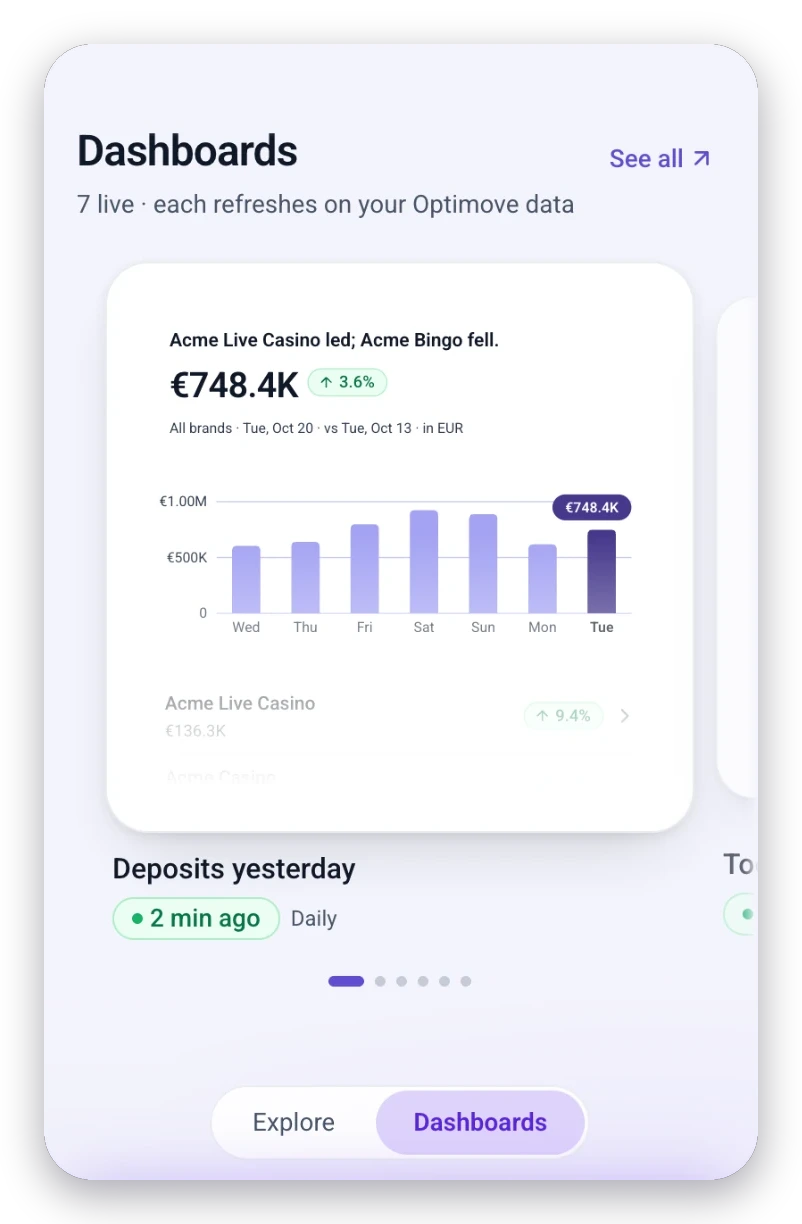
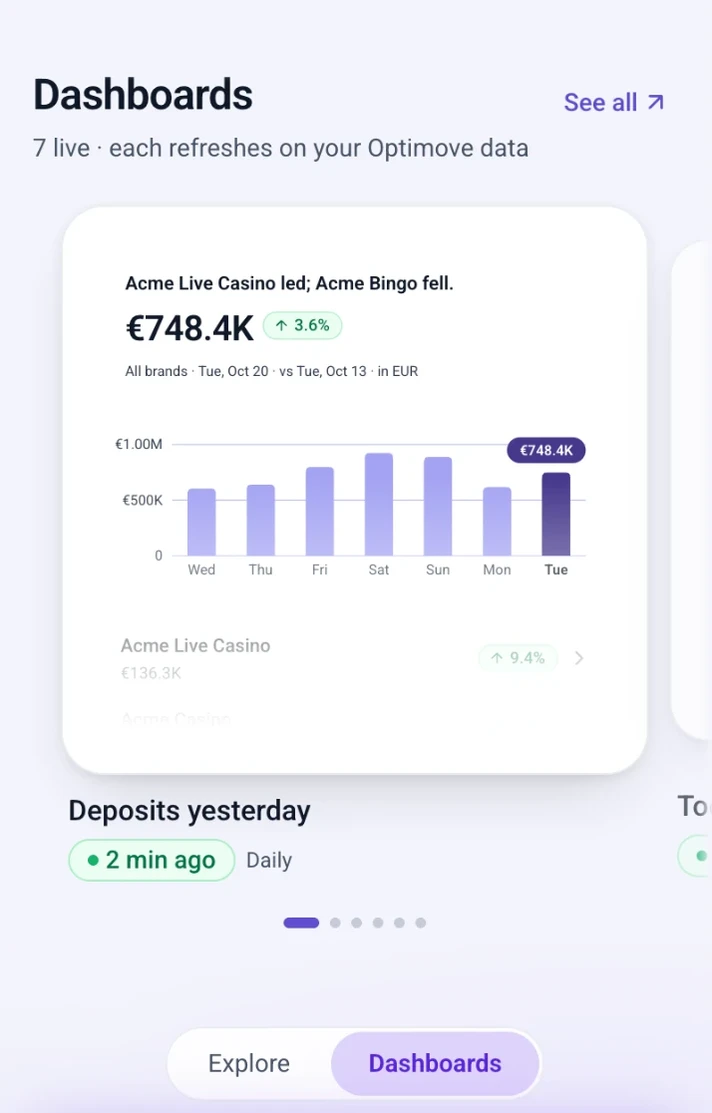
design(optigenie): decision screens one scale (full screen width, same display width), smaller, no shadow; hairline + radius in CSS

diff --git a/optigenie.html b/optigenie.html
@@ -370,7 +370,7 @@
 .ux-block-head { display: block; margin-bottom: clamp(2rem, 3vw, 3rem); }
 .ux-block-head p { margin-top: .9rem; max-width: 72ch; }
     </style>
-<style>.wireframe-study .wireframe-figure{margin:auto 0 0}.wireframe-study .ads-shot img{cursor:default}@media (min-width:721px){.ads-meta{grid-template-columns:repeat(3,minmax(0,1fr))}}.wireframe-grid.streams-three{grid-template-columns:repeat(3,minmax(0,1fr))}#build .ux-block{margin-top:var(--block-gap)}.ads-wrap > .media-story.media-story--lead{margin-top:0;padding-top:0;border-top:0}.media-story.media-story--lead .ads-h2{max-width:16ch;margin:0 0 1.5rem}@media (max-width:1100px){.wireframe-grid.streams-three{grid-template-columns:minmax(0,1fr)}}.princ,.story-phases article{border-top:0;padding-top:0}.intro-copy .ads-body + .ads-body{margin-top:1rem}#dry-run .story-opening--page + .case-figure,#decisions .story-opening--page + .case-figure{margin-top:clamp(2.5rem,4vw,4rem);padding-top:0;border-top:0}#decisions .case-figure + .case-figure{margin-top:clamp(1.5rem,2.5vw,2.5rem);padding-top:0;border-top:0}.story-phases h3{max-width:none}.og-decisions{display:grid;grid-template-columns:repeat(3,minmax(0,1fr));gap:clamp(1.5rem,2.5vw,2.5rem);margin-top:clamp(3rem,5vw,5rem)}.og-dcard{display:flex;flex-direction:column}.og-dcard__fig{position:relative;margin:0 0 1.75rem;aspect-ratio:4/5;border-radius:24px;background:#ededfb;overflow:hidden}.og-dcard__fig img{position:absolute;inset:clamp(.75rem,1.6vw,1.5rem);width:calc(100% - 2*clamp(.75rem,1.6vw,1.5rem));height:calc(100% - 2*clamp(.75rem,1.6vw,1.5rem));object-fit:contain}.og-dcard h3{font-size:clamp(1.25rem,1.7vw,1.5rem);line-height:1.2;margin:.75rem 0 .75rem}.og-dcard .phase{display:block;color:var(--violet);font-size:.75rem;font-weight:600;line-height:1.5;letter-spacing:.12em;text-transform:uppercase}.og-dcard > p:not(.og-instead){margin:0;font-size:clamp(1rem,1.1vw,1.125rem);line-height:1.7;color:var(--text);max-width:42ch}.og-dcard .og-instead{margin-top:auto;padding-top:1.25rem}.og-dcard > p:not(.og-instead){margin-bottom:1.5rem}@media (max-width:900px){.og-decisions{grid-template-columns:minmax(0,1fr)}.og-dcard__fig{aspect-ratio:1/1}}.og-vs{display:grid;grid-template-columns:1fr 1fr;margin-top:1rem;text-align:center;font-size:.85rem;font-weight:600;color:var(--muted)}.og-vs span:last-child{color:var(--violet)}.og-instead{margin-top:1.75rem;padding-top:1.25rem;border-top:1px solid var(--line);color:var(--muted);font-size:.95rem;line-height:1.55}.og-instead span{display:block;color:var(--violet);font-size:.7rem;font-weight:600;letter-spacing:.12em;text-transform:uppercase;margin-bottom:.4rem}.story-opening--page .intro-copy{max-width:110ch}@media (min-width:1500px){.story-phases h3{white-space:nowrap}}@media (min-width:1100px){}</style>
+<style>.wireframe-study .wireframe-figure{margin:auto 0 0}.wireframe-study .ads-shot img{cursor:default}@media (min-width:721px){.ads-meta{grid-template-columns:repeat(3,minmax(0,1fr))}}.wireframe-grid.streams-three{grid-template-columns:repeat(3,minmax(0,1fr))}#build .ux-block{margin-top:var(--block-gap)}.ads-wrap > .media-story.media-story--lead{margin-top:0;padding-top:0;border-top:0}.media-story.media-story--lead .ads-h2{max-width:16ch;margin:0 0 1.5rem}@media (max-width:1100px){.wireframe-grid.streams-three{grid-template-columns:minmax(0,1fr)}}.princ,.story-phases article{border-top:0;padding-top:0}.intro-copy .ads-body + .ads-body{margin-top:1rem}#dry-run .story-opening--page + .case-figure,#decisions .story-opening--page + .case-figure{margin-top:clamp(2.5rem,4vw,4rem);padding-top:0;border-top:0}#decisions .case-figure + .case-figure{margin-top:clamp(1.5rem,2.5vw,2.5rem);padding-top:0;border-top:0}.story-phases h3{max-width:none}.og-decisions{display:grid;grid-template-columns:repeat(3,minmax(0,1fr));gap:clamp(1.5rem,2.5vw,2.5rem);margin-top:clamp(3rem,5vw,5rem)}.og-dcard{display:flex;flex-direction:column}.og-dcard__fig{position:relative;margin:0 0 1.75rem;aspect-ratio:1/1;border-radius:24px;background:#ededfb;overflow:hidden}.og-dcard__fig img{position:absolute;left:50%;top:50%;transform:translate(-50%,-50%);width:56%;height:auto;border-radius:16px;box-shadow:0 0 0 1px rgba(29,24,80,.08)}.og-dcard h3{font-size:clamp(1.25rem,1.7vw,1.5rem);line-height:1.2;margin:.75rem 0 .75rem}.og-dcard .phase{display:block;color:var(--violet);font-size:.75rem;font-weight:600;line-height:1.5;letter-spacing:.12em;text-transform:uppercase}.og-dcard > p:not(.og-instead){margin:0;font-size:clamp(1rem,1.1vw,1.125rem);line-height:1.7;color:var(--text);max-width:42ch}.og-dcard .og-instead{margin-top:auto;padding-top:1.25rem}.og-dcard > p:not(.og-instead){margin-bottom:1.5rem}@media (max-width:900px){.og-decisions{grid-template-columns:minmax(0,1fr)}.og-dcard__fig{aspect-ratio:1/1}}.og-vs{display:grid;grid-template-columns:1fr 1fr;margin-top:1rem;text-align:center;font-size:.85rem;font-weight:600;color:var(--muted)}.og-vs span:last-child{color:var(--violet)}.og-instead{margin-top:1.75rem;padding-top:1.25rem;border-top:1px solid var(--line);color:var(--muted);font-size:.95rem;line-height:1.55}.og-instead span{display:block;color:var(--violet);font-size:.7rem;font-weight:600;letter-spacing:.12em;text-transform:uppercase;margin-bottom:.4rem}.story-opening--page .intro-copy{max-width:110ch}@media (min-width:1500px){.story-phases h3{white-space:nowrap}}@media (min-width:1100px){}</style>
 <style>
 /* Animated pencil sketches (sketch_anim.py). Without the .is-armed hook everything is simply drawn. */
 @font-face{font-family:Caveat;font-style:normal;font-weight:500;font-display:swap;src:url(./assets/streams/caveat-500.ttf) format("truetype")}
@@ -898,7 +898,7 @@ body::after { content: ""; position: fixed; inset: 0; z-index: 9000; pointer-eve
             <p class="sub fade-up">OptiGenie is Optimove’s AI assistant for CRM marketers and the managers who follow their work. I led its first mobile app from the UX and feature set to the MVP.</p>
         </div></section>
         <section class="ads-sec ads-sec--mist" id="challenge" data-rail="The challenge"><div class="ads-wrap"><div class="story-opening story-opening--page story-opening--sketch"><div class="ads-head fade-up"><p class="ads-label page-chapter">The challenge</p><h2 class="ads-h2">Bringing OptiGenie to mobile</h2><p class="ads-body">OptiGenie 3.1 had grown on desktop, with memory, artifacts, dashboards and scheduled tasks, all inside one long conversation. I led its move to the phone, a strategic product for the company, from the first UX decisions and feature set to the MVP.</p><p class="ads-body">On the phone it serves two users with overlapping needs. CRM marketers want a fast, clear update and a bird’s-eye view of their brands and campaigns, then to act on what needs them. Managers want the picture of the marketing activity without running it. Rather than two apps, both start from the same summary and go as deep as they need: Dashboards for the view at a glance, Explore and Tasks for acting on it.</p><p class="ads-body">Three things made that hard.</p><p class="ads-body"><strong>A lot to look at, one right story.</strong> Optimove holds a lot of data and a lot of things to view: brands, campaigns, customers and channels, plus memory, artifacts, dashboards and tasks. On a small screen it can’t all be shown at once, so the app has to navigate it for the marketer and tell the right story: what changed, what matters and what needs them.</p><p class="ads-body"><strong>Answers came as paragraphs.</strong> The figures were right, but on a small screen the marketer read a wall of words to find the one number that mattered.</p><p class="ads-body"><strong>The AI acts on its own.</strong> Tasks run on a schedule and can change campaigns, so the marketer has to see what it did and decide what it may do without asking.</p><p class="ads-body">The work was to answer all three in one product for the phone, on the Optimove design system.</p></div><figure class="story-sketch fade-up" tabindex="0" aria-label="The challenge; scroll sideways on small screens"><svg class="mg" id="mg-og-challenge" viewBox="0 0 520 710" role="img" aria-label="OptiGenie 3.1 on desktop (memory, artifacts, dashboards and tasks) becomes one mobile app on the Optimove design system: Optimove's first mobile app, led from UX to MVP, and growing past the MVP." data-dur="7.6" xmlns="http://www.w3.org/2000/svg"><g aria-hidden="true"><g class="drop" style="--d:0.00s"><rect x="40" y="29" width="440" height="160" rx="16" fill="#aca4ea" stroke="#1d1850" stroke-width="2.0"/><rect x="40" y="20" width="440" height="160" rx="16" fill="#ffffff" stroke="#1d1850" stroke-width="2.0"/><path d="M51.2 23.2 H468.8" stroke="#ffffff" stroke-width="2.4" stroke-linecap="round" opacity=".75" fill="none"/><g transform="translate(260.0 60) scale(1.0)"><path class="tx" d="M-20 -14 H20 V10 H-20 Z" fill="#ffffff" stroke="none" style="--d:0.40s;--t:.3s"/><path class="dr" d="M-20 -14 H20 V10 H-20 Z" pathLength="1" fill="none" stroke="#1d1850" stroke-width="3.0" stroke-linecap="round" stroke-linejoin="round" style="--d:0.30s;--t:0.35s"/><path class="dr" d="M-6 10 V16 M6 10 V16 M-10 16 H10" pathLength="1" fill="none" stroke="#1d1850" stroke-width="3.0" stroke-linecap="round" stroke-linejoin="round" style="--d:0.42s;--t:0.35s"/></g><g class="pop" style="--d:0.45s"><circle cx="466" cy="26" r="17" fill="#4a37c9" stroke="#1d1850" stroke-width="2.0"/><circle cx="466" cy="22" r="17" fill="#8f7af8" stroke="#1d1850" stroke-width="2.0"/><g transform="translate(466 22) scale(0.45)"><path class="dr" d="M0 -18 C1.5 -6 6 -1.5 18 0 C6 1.5 1.5 6 0 18 C-1.5 6 -6 1.5 -18 0 C-6 -1.5 -1.5 -6 0 -18 Z" pathLength="1" fill="none" stroke="#ffffff" stroke-width="4.4" stroke-linecap="round" stroke-linejoin="round" style="--d:0.65s;--t:0.35s"/></g></g></g><text class="w" x="260.0" y="106" font-size="25" font-weight="800" text-anchor="middle" fill="#1d1850" data-max="416" style="--d:0.30s;--t:0.45s">OptiGenie 3.1</text><text class="tx mut" x="260.0" y="133" font-size="16" font-weight="500" text-anchor="middle" fill="#1d1850" data-max="416" style="--d:0.45s;--t:0.40s">on desktop: memory, artifacts,</text><text class="tx mut" x="260.0" y="155" font-size="16" font-weight="500" text-anchor="middle" fill="#1d1850" data-max="416" style="--d:0.53s;--t:0.40s">dashboards and tasks</text><path class="dr" d="M260 194 Q260.0 215.0 260 236" pathLength="1" fill="none" stroke="#1d1850" stroke-width="2.8" stroke-linecap="round" style="--d:0.70s;--t:0.30s"/><path class="dr" d="M254.7 226.3 L260 236 L265.3 226.3" pathLength="1" fill="none" stroke="#1d1850" stroke-width="2.8" stroke-linecap="round" stroke-linejoin="round" style="--d:0.94s;--t:.2s"/><g class="drop" style="--d:1.00s"><rect x="40" y="259" width="440" height="160" rx="16" fill="#c6e92b" stroke="#1d1850" stroke-width="2.0"/><rect x="40" y="250" width="440" height="160" rx="16" fill="#ffffff" stroke="#1d1850" stroke-width="2.0"/><path d="M51.2 253.2 H468.8" stroke="#ffffff" stroke-width="2.4" stroke-linecap="round" opacity=".75" fill="none"/><g transform="translate(260.0 290) scale(1.0)"><path class="tx" d="M-12 -20 H12 V20 H-12 Z" fill="#ffffff" stroke="none" style="--d:1.40s;--t:.3s"/><path class="dr" d="M-12 -20 H12 V20 H-12 Z" pathLength="1" fill="none" stroke="#1d1850" stroke-width="3.0" stroke-linecap="round" stroke-linejoin="round" style="--d:1.30s;--t:0.35s"/><path class="dr" d="M-4 15 H4" pathLength="1" fill="none" stroke="#1d1850" stroke-width="3.0" stroke-linecap="round" stroke-linejoin="round" style="--d:1.42s;--t:0.35s"/></g></g><text class="w" x="260.0" y="336" font-size="25" font-weight="800" text-anchor="middle" fill="#1d1850" data-max="416" style="--d:1.30s;--t:0.45s">One mobile app</text><text class="tx mut" x="260.0" y="363" font-size="16" font-weight="500" text-anchor="middle" fill="#1d1850" data-max="416" style="--d:1.45s;--t:0.40s">on the Optimove</text><text class="tx mut" x="260.0" y="385" font-size="16" font-weight="500" text-anchor="middle" fill="#1d1850" data-max="416" style="--d:1.53s;--t:0.40s">design system</text><path class="dr" d="M260 424 Q260.0 445.0 260 466" pathLength="1" fill="none" stroke="#1d1850" stroke-width="2.8" stroke-linecap="round" style="--d:1.70s;--t:0.30s"/><path class="dr" d="M254.7 456.3 L260 466 L265.3 456.3" pathLength="1" fill="none" stroke="#1d1850" stroke-width="2.8" stroke-linecap="round" stroke-linejoin="round" style="--d:1.94s;--t:.2s"/><g class="drop" style="--d:2.00s"><rect x="40" y="489" width="440" height="160" rx="16" fill="#aca4ea" stroke="#1d1850" stroke-width="2.0"/><rect x="40" y="480" width="440" height="160" rx="16" fill="#ffffff" stroke="#1d1850" stroke-width="2.0"/><path d="M51.2 483.2 H468.8" stroke="#ffffff" stroke-width="2.4" stroke-linecap="round" opacity=".75" fill="none"/><g transform="translate(260.0 520) scale(1.0)"><path class="tx" d="M-18 0 a18 18 0 1 0 36 0 a18 18 0 1 0 -36 0" fill="#ffffff" stroke="none" style="--d:2.40s;--t:.3s"/><path class="dr" d="M-18 0 a18 18 0 1 0 36 0 a18 18 0 1 0 -36 0" pathLength="1" fill="none" stroke="#1d1850" stroke-width="3.0" stroke-linecap="round" stroke-linejoin="round" style="--d:2.30s;--t:0.35s"/><path class="dr" d="M-5 -8 L9 0 L-5 8 Z" pathLength="1" fill="none" stroke="#1d1850" stroke-width="3.0" stroke-linecap="round" stroke-linejoin="round" style="--d:2.42s;--t:0.35s"/></g></g><text class="w" x="260.0" y="566" font-size="25" font-weight="800" text-anchor="middle" fill="#1d1850" data-max="416" style="--d:2.30s;--t:0.45s">A strategic first</text><text class="tx mut" x="260.0" y="593" font-size="16" font-weight="500" text-anchor="middle" fill="#1d1850" data-max="416" style="--d:2.45s;--t:0.40s">Optimove’s first mobile app,</text><text class="tx mut" x="260.0" y="615" font-size="16" font-weight="500" text-anchor="middle" fill="#1d1850" data-max="416" style="--d:2.53s;--t:0.40s">led from UX to MVP</text><text class="tx mut" x="260" y="690" font-size="17" font-weight="600" text-anchor="middle" fill="#1d1850" data-max="400" style="--d:2.70s;--t:0.40s">and growing past the MVP</text></g></svg></figure></div></div></section>
-        <section class="ads-sec" id="discovery" data-rail="Discovery &amp; definition"><div class="ads-wrap"><p class="ads-label page-chapter fade-up">Discovery &amp; definition</p><div class="story-opening story-opening--page story-opening--stack"><div class="ads-head fade-up"><h2 class="ads-h2">Main UX decisions</h2></div><div class="intro-copy fade-up"><p class="ads-body">Bringing OptiGenie 3.1 from desktop to the phone meant more than fitting it on a smaller screen. On desktop it is a long conversation in a wide window; on a phone, a visit is often a quick check. Every call came back to one question: what does the marketer need in the first few seconds, and what can wait a tap away. These are the decisions that shaped the app most: where you start, where things live, what the AI does on its own, and how it shows an answer.</p></div></div><div class="og-decisions"><article class="og-dcard fade-up"><figure class="og-dcard__fig"><img loading="lazy" decoding="async" src="./assets/optigenie/dec-home.webp?v=a7a9c1a1cc5c" width="888" height="1026" alt="The OptiGenie home: a greeting, the next scheduled tasks under Coming up, and two suggested questions."></figure><span class="phase">01 · Starting point</span><h3>Open on what matters</h3><p>The home says what OptiGenie can do and what is coming up next, and suggests the questions worth asking.</p><p class="og-instead"><span>Instead of</span> an empty box waiting for the right question.</p></article><article class="og-dcard fade-up"><figure class="og-dcard__fig"><img loading="lazy" decoding="async" src="./assets/optigenie/dec-tabs.webp?v=e85b240eeb6b" width="802" height="1224" alt="The Dashboards tab: a live Deposits yesterday dashboard with its chart and refresh time, and the Explore and Dashboards switch at the bottom."></figure><span class="phase">02 · Structure</span><h3>Explore and Dashboards as tabs</h3><p>Marketers ask new questions, and they check the same numbers every morning. The views they follow get their own tab, refreshed on a schedule, a swipe from where they ask: the conversation is the way in, not the whole product. Everything else sits in one menu, on every screen.</p><p class="og-instead"><span>Instead of</span> one long chat history that holds everything.</p></article><article class="og-dcard fade-up"><figure class="og-dcard__fig"><img loading="lazy" decoding="async" src="./assets/optigenie/dec-approval.webp?v=d3b0ba94e067" width="870" height="596" alt="A task run that Needs your OK: the steps OptiGenie took, a drafted win-back, and Approve and Decline buttons."></figure><span class="phase">03 · Trust</span><h3>Visible steps, approval by choice</h3><p>OptiGenie shows the steps it takes while it works. Whether a task asks before it changes anything in Optimove is the marketer’s call: Ask me first or Run on its own. Sending to customers always asks.</p><p class="og-instead"><span>Instead of</span> an AI that acts without showing what it did.</p></article></div><div class="media-story"><div class="media-story-copy fade-up"><div><p class="media-kicker">04 · Answers</p><h3>Answers you can see, not read</h3></div><div><p>The model answered in text. The figures were there, but on a phone the marketer had to read through a list of numbers to find the point.</p><p>My call was to teach the model how we build. I adapted the skill I built for composing Optimove screens: the component catalog, which block fits which kind of figure, and how a dashboard tells its story. With it, the model answers in blocks that the app draws with its own components: the point in one sentence, a key figure with its change, the chart that fits, and a short takeaway.</p><p>Same question, same data: on the left the model on its own, on the right with the skill, which builds the answer as a small dashboard. In a test on eight questions from the app, the text answers averaged about 105 words and 20 numbers. With the skill they averaged 35 words, with the figures in charts and cards. See the skill on the AI skills for product design page.</p></div></div><figure class="case-figure fade-up" style="--media-max:900px"><div class="ads-shot recording-frame" data-title="The same question, How are my brands doing?, answered twice and scrolled. Left, the model on its own: bullet lists of figures. Right, with the skill: a dashboard with a hero card of deposits and a week of bars, KPI cards with their changes and a breakdown by brand."><video src="./assets/optigenie/og-answers-skill.mp4?v=9c0c17fae960" poster="./assets/optigenie/og-answers-skill-poster.webp?v=5db4326e23c1" width="1896" height="1692" loop muted playsinline preload="none" aria-label="The same question, How are my brands doing?, answered twice and scrolled. Left, the model on its own: bullet lists of figures. Right, with the skill: a dashboard with a hero card of deposits and a week of bars, KPI cards with their changes and a breakdown by brand."></video></div><figcaption class="og-vs"><span>Without the skill</span><span>With the skill</span></figcaption></figure></div></div></section>
+        <section class="ads-sec" id="discovery" data-rail="Discovery &amp; definition"><div class="ads-wrap"><p class="ads-label page-chapter fade-up">Discovery &amp; definition</p><div class="story-opening story-opening--page story-opening--stack"><div class="ads-head fade-up"><h2 class="ads-h2">Main UX decisions</h2></div><div class="intro-copy fade-up"><p class="ads-body">Bringing OptiGenie 3.1 from desktop to the phone meant more than fitting it on a smaller screen. On desktop it is a long conversation in a wide window; on a phone, a visit is often a quick check. Every call came back to one question: what does the marketer need in the first few seconds, and what can wait a tap away. These are the decisions that shaped the app most: where you start, where things live, what the AI does on its own, and how it shows an answer.</p></div></div><div class="og-decisions"><article class="og-dcard fade-up"><figure class="og-dcard__fig"><img loading="lazy" decoding="async" src="./assets/optigenie/dec-home.webp?v=86b87a72cff6" width="712" height="862" alt="The OptiGenie home: a greeting, the next scheduled tasks under Coming up, and two suggested questions."></figure><span class="phase">01 · Starting point</span><h3>Open on what matters</h3><p>The home says what OptiGenie can do and what is coming up next, and suggests the questions worth asking.</p><p class="og-instead"><span>Instead of</span> an empty box waiting for the right question.</p></article><article class="og-dcard fade-up"><figure class="og-dcard__fig"><img loading="lazy" decoding="async" src="./assets/optigenie/dec-tabs.webp?v=cd8b29443c0f" width="712" height="1113" alt="The Dashboards tab: a live Deposits yesterday dashboard with its chart and refresh time, and the Explore and Dashboards switch at the bottom."></figure><span class="phase">02 · Structure</span><h3>Explore and Dashboards as tabs</h3><p>Marketers ask new questions, and they check the same numbers every morning. The views they follow get their own tab, refreshed on a schedule, a swipe from where they ask: the conversation is the way in, not the whole product. Everything else sits in one menu, on every screen.</p><p class="og-instead"><span>Instead of</span> one long chat history that holds everything.</p></article><article class="og-dcard fade-up"><figure class="og-dcard__fig"><img loading="lazy" decoding="async" src="./assets/optigenie/dec-approval.webp?v=dbb0330347f8" width="712" height="497" alt="A task run that Needs your OK: the steps OptiGenie took, a drafted win-back, and Approve and Decline buttons."></figure><span class="phase">03 · Trust</span><h3>Visible steps, approval by choice</h3><p>OptiGenie shows the steps it takes while it works. Whether a task asks before it changes anything in Optimove is the marketer’s call: Ask me first or Run on its own. Sending to customers always asks.</p><p class="og-instead"><span>Instead of</span> an AI that acts without showing what it did.</p></article></div><div class="media-story"><div class="media-story-copy fade-up"><div><p class="media-kicker">04 · Answers</p><h3>Answers you can see, not read</h3></div><div><p>The model answered in text. The figures were there, but on a phone the marketer had to read through a list of numbers to find the point.</p><p>My call was to teach the model how we build. I adapted the skill I built for composing Optimove screens: the component catalog, which block fits which kind of figure, and how a dashboard tells its story. With it, the model answers in blocks that the app draws with its own components: the point in one sentence, a key figure with its change, the chart that fits, and a short takeaway.</p><p>Same question, same data: on the left the model on its own, on the right with the skill, which builds the answer as a small dashboard. In a test on eight questions from the app, the text answers averaged about 105 words and 20 numbers. With the skill they averaged 35 words, with the figures in charts and cards. See the skill on the AI skills for product design page.</p></div></div><figure class="case-figure fade-up" style="--media-max:900px"><div class="ads-shot recording-frame" data-title="The same question, How are my brands doing?, answered twice and scrolled. Left, the model on its own: bullet lists of figures. Right, with the skill: a dashboard with a hero card of deposits and a week of bars, KPI cards with their changes and a breakdown by brand."><video src="./assets/optigenie/og-answers-skill.mp4?v=9c0c17fae960" poster="./assets/optigenie/og-answers-skill-poster.webp?v=5db4326e23c1" width="1896" height="1692" loop muted playsinline preload="none" aria-label="The same question, How are my brands doing?, answered twice and scrolled. Left, the model on its own: bullet lists of figures. Right, with the skill: a dashboard with a hero card of deposits and a week of bars, KPI cards with their changes and a breakdown by brand."></video></div><figcaption class="og-vs"><span>Without the skill</span><span>With the skill</span></figcaption></figure></div></div></section>
         <section class="ads-sec ads-sec--mist" id="ux-process" data-rail="UX decisions &amp; flows"><div class="ads-wrap"><p class="ads-label page-chapter fade-up">UX decisions &amp; flows</p><div class="story-opening story-opening--page story-opening--sketch"><div class="ads-head fade-up"><h2 class="ads-h2">Navigation model</h2><p class="ads-body">Every screen is a step from Explore or Dashboards, and the menu opens from all of them. Back always goes up one level: a task returns to the task list, a dashboard opened from the full list returns there.</p><p class="ads-body">Swipe and tap do the same thing, with the same motion, so the two never feel like different actions.</p></div><figure class="story-sketch fade-up" tabindex="0" aria-label="App map; scroll sideways on small screens"><svg class="mg" id="mg-og-flow" viewBox="0 0 1200 500" role="img" aria-label="Sign-in leads to Explore, which swaps with Dashboards by a swipe. Explore opens an answer that can be saved as a dashboard; Dashboards opens a live dashboard. The menu opens from every screen and holds Tasks, Artifacts, Chats and Settings. Back always goes up one level." data-dur="7.6" xmlns="http://www.w3.org/2000/svg"><g aria-hidden="true"><g class="drop" style="--d:0.00s"><rect x="20" y="69" width="210" height="150" rx="16" fill="#aca4ea" stroke="#1d1850" stroke-width="2.0"/><rect x="20" y="60" width="210" height="150" rx="16" fill="#ffffff" stroke="#1d1850" stroke-width="2.0"/><path d="M31.2 63.2 H218.8" stroke="#ffffff" stroke-width="2.4" stroke-linecap="round" opacity=".75" fill="none"/><g transform="translate(125.0 100) scale(1.0)"><path class="tx" d="M-16 -6 a16 16 0 0 1 32 0 V14 H-16 Z" fill="#ffffff" stroke="none" style="--d:0.40s;--t:.3s"/><path class="dr" d="M-16 -6 a16 16 0 0 1 32 0 V14 H-16 Z" pathLength="1" fill="none" stroke="#1d1850" stroke-width="3.0" stroke-linecap="round" stroke-linejoin="round" style="--d:0.30s;--t:0.35s"/><path class="dr" d="M-6 -6 a6 6 0 0 1 12 0" pathLength="1" fill="none" stroke="#1d1850" stroke-width="3.0" stroke-linecap="round" stroke-linejoin="round" style="--d:0.42s;--t:0.35s"/></g></g><text class="w" x="125.0" y="146" font-size="25" font-weight="800" text-anchor="middle" fill="#1d1850" data-max="186" style="--d:0.30s;--t:0.45s">Sign-in</text><text class="tx mut" x="125.0" y="173" font-size="16" font-weight="500" text-anchor="middle" fill="#1d1850" data-max="186" style="--d:0.45s;--t:0.40s">once, then remembered</text><path class="dr" d="M240 135 Q270.0 135.0 300 135" pathLength="1" fill="none" stroke="#1d1850" stroke-width="2.8" stroke-linecap="round" style="--d:0.50s;--t:0.30s"/><path class="dr" d="M291.2 139.8 L300 135 L291.2 130.2" pathLength="1" fill="none" stroke="#1d1850" stroke-width="2.8" stroke-linecap="round" stroke-linejoin="round" style="--d:0.74s;--t:.2s"/><g class="drop" style="--d:0.70s"><rect x="310" y="69" width="210" height="150" rx="16" fill="#aca4ea" stroke="#1d1850" stroke-width="2.0"/><rect x="310" y="60" width="210" height="150" rx="16" fill="#ffffff" stroke="#1d1850" stroke-width="2.0"/><path d="M321.2 63.2 H508.8" stroke="#ffffff" stroke-width="2.4" stroke-linecap="round" opacity=".75" fill="none"/><g transform="translate(415.0 100) scale(1.0)"><path class="tx" d="M-19 -15 H19 V8 H-4 L-13 17 V8 H-19 Z" fill="#ffffff" stroke="none" style="--d:1.10s;--t:.3s"/><path class="dr" d="M-19 -15 H19 V8 H-4 L-13 17 V8 H-19 Z" pathLength="1" fill="none" stroke="#1d1850" stroke-width="3.0" stroke-linecap="round" stroke-linejoin="round" style="--d:1.00s;--t:0.35s"/><path class="dr" d="M-10 -4 H10" pathLength="1" fill="none" stroke="#1d1850" stroke-width="3.0" stroke-linecap="round" stroke-linejoin="round" style="--d:1.12s;--t:0.35s"/><path class="dr" d="M-10 2 H4" pathLength="1" fill="none" stroke="#1d1850" stroke-width="3.0" stroke-linecap="round" stroke-linejoin="round" style="--d:1.24s;--t:0.35s"/></g></g><text class="w" x="415.0" y="146" font-size="25" font-weight="800" text-anchor="middle" fill="#1d1850" data-max="186" style="--d:1.00s;--t:0.45s">Explore</text><text class="tx mut" x="415.0" y="173" font-size="16" font-weight="500" text-anchor="middle" fill="#1d1850" data-max="186" style="--d:1.15s;--t:0.40s">ask</text><g class="drop" style="--d:1.10s"><rect x="600" y="69" width="210" height="150" rx="16" fill="#c6e92b" stroke="#1d1850" stroke-width="2.0"/><rect x="600" y="60" width="210" height="150" rx="16" fill="#ffffff" stroke="#1d1850" stroke-width="2.0"/><path d="M611.2 63.2 H798.8" stroke="#ffffff" stroke-width="2.4" stroke-linecap="round" opacity=".75" fill="none"/><g transform="translate(705.0 100) scale(1.0)"><path class="dr" d="M-15 15 V3" pathLength="1" fill="none" stroke="#1d1850" stroke-width="3.0" stroke-linecap="round" stroke-linejoin="round" style="--d:1.40s;--t:0.35s"/><path class="dr" d="M-5 15 V-7" pathLength="1" fill="none" stroke="#1d1850" stroke-width="3.0" stroke-linecap="round" stroke-linejoin="round" style="--d:1.52s;--t:0.35s"/><path class="dr" d="M5 15 V-1" pathLength="1" fill="none" stroke="#1d1850" stroke-width="3.0" stroke-linecap="round" stroke-linejoin="round" style="--d:1.64s;--t:0.35s"/><path class="dr" d="M15 15 V-15" pathLength="1" fill="none" stroke="#1d1850" stroke-width="3.0" stroke-linecap="round" stroke-linejoin="round" style="--d:1.76s;--t:0.35s"/><path class="dr" d="M-20 15 H20" pathLength="1" fill="none" stroke="#1d1850" stroke-width="3.0" stroke-linecap="round" stroke-linejoin="round" style="--d:1.88s;--t:0.35s"/></g></g><text class="w" x="705.0" y="146" font-size="25" font-weight="800" text-anchor="middle" fill="#1d1850" data-max="186" style="--d:1.40s;--t:0.45s">Dashboards</text><text class="tx mut" x="705.0" y="173" font-size="16" font-weight="500" text-anchor="middle" fill="#1d1850" data-max="186" style="--d:1.55s;--t:0.40s">follow</text><path class="dr" d="M530 118 Q560.0 118.0 590 118" pathLength="1" fill="none" stroke="#1d1850" stroke-width="2.8" stroke-linecap="round" style="--d:1.50s;--t:0.25s"/><path class="dr" d="M581.2 122.8 L590 118 L581.2 113.2" pathLength="1" fill="none" stroke="#1d1850" stroke-width="2.8" stroke-linecap="round" stroke-linejoin="round" style="--d:1.70s;--t:.2s"/><path class="dr" d="M590 152 Q560.0 152.0 530 152" pathLength="1" fill="none" stroke="#1d1850" stroke-width="2.8" stroke-linecap="round" style="--d:1.60s;--t:0.25s"/><path class="dr" d="M538.8 147.2 L530 152 L538.8 156.8" pathLength="1" fill="none" stroke="#1d1850" stroke-width="2.8" stroke-linecap="round" stroke-linejoin="round" style="--d:1.80s;--t:.2s"/><text class="tx mut" x="560" y="190" font-size="17" font-weight="600" text-anchor="middle" fill="#1d1850" data-max="80" style="--d:1.70s;--t:0.40s">swipe</text><path class="dr" d="M415 226 Q415.0 256.0 415 286" pathLength="1" fill="none" stroke="#1d1850" stroke-width="2.8" stroke-linecap="round" style="--d:1.90s;--t:0.30s"/><path class="dr" d="M410.2 277.2 L415 286 L419.8 277.2" pathLength="1" fill="none" stroke="#1d1850" stroke-width="2.8" stroke-linecap="round" stroke-linejoin="round" style="--d:2.14s;--t:.2s"/><path class="dr" d="M705 226 Q705.0 256.0 705 286" pathLength="1" fill="none" stroke="#1d1850" stroke-width="2.8" stroke-linecap="round" style="--d:2.00s;--t:0.30s"/><path class="dr" d="M700.2 277.2 L705 286 L709.8 277.2" pathLength="1" fill="none" stroke="#1d1850" stroke-width="2.8" stroke-linecap="round" stroke-linejoin="round" style="--d:2.24s;--t:.2s"/><g class="drop" style="--d:2.20s"><rect x="310" y="305" width="210" height="120" rx="16" fill="#aca4ea" stroke="#1d1850" stroke-width="2.0"/><rect x="310" y="296" width="210" height="120" rx="16" fill="#ffffff" stroke="#1d1850" stroke-width="2.0"/><path d="M321.2 299.2 H508.8" stroke="#ffffff" stroke-width="2.4" stroke-linecap="round" opacity=".75" fill="none"/></g><text class="w" x="415.0" y="346" font-size="25" font-weight="800" text-anchor="middle" fill="#1d1850" data-max="186" style="--d:2.50s;--t:0.45s">Answer</text><text class="tx mut" x="415.0" y="373" font-size="16" font-weight="500" text-anchor="middle" fill="#1d1850" data-max="186" style="--d:2.65s;--t:0.40s">save it as a dashboard</text><g class="drop" style="--d:2.40s"><rect x="600" y="305" width="210" height="120" rx="16" fill="#aca4ea" stroke="#1d1850" stroke-width="2.0"/><rect x="600" y="296" width="210" height="120" rx="16" fill="#ffffff" stroke="#1d1850" stroke-width="2.0"/><path d="M611.2 299.2 H798.8" stroke="#ffffff" stroke-width="2.4" stroke-linecap="round" opacity=".75" fill="none"/></g><text class="w" x="705.0" y="346" font-size="25" font-weight="800" text-anchor="middle" fill="#1d1850" data-max="186" style="--d:2.70s;--t:0.45s">Dashboard</text><text class="tx mut" x="705.0" y="373" font-size="16" font-weight="500" text-anchor="middle" fill="#1d1850" data-max="186" style="--d:2.85s;--t:0.40s">live, on a schedule</text><g class="drop" style="--d:2.80s"><rect x="950" y="69" width="230" height="150" rx="16" fill="#aca4ea" stroke="#1d1850" stroke-width="2.0"/><rect x="950" y="60" width="230" height="150" rx="16" fill="#ffffff" stroke="#1d1850" stroke-width="2.0"/><path d="M961.2 63.2 H1168.8" stroke="#ffffff" stroke-width="2.4" stroke-linecap="round" opacity=".75" fill="none"/><g transform="translate(1065.0 100) scale(1.0)"><path class="dr" d="M-15 -9 H15" pathLength="1" fill="none" stroke="#1d1850" stroke-width="3.0" stroke-linecap="round" stroke-linejoin="round" style="--d:3.10s;--t:0.35s"/><path class="dr" d="M-15 0 H15" pathLength="1" fill="none" stroke="#1d1850" stroke-width="3.0" stroke-linecap="round" stroke-linejoin="round" style="--d:3.22s;--t:0.35s"/><path class="dr" d="M-15 9 H15" pathLength="1" fill="none" stroke="#1d1850" stroke-width="3.0" stroke-linecap="round" stroke-linejoin="round" style="--d:3.34s;--t:0.35s"/></g></g><text class="w" x="1065.0" y="146" font-size="25" font-weight="800" text-anchor="middle" fill="#1d1850" data-max="206" style="--d:3.10s;--t:0.45s">Menu</text><text class="tx mut" x="1065.0" y="173" font-size="16" font-weight="500" text-anchor="middle" fill="#1d1850" data-max="206" style="--d:3.25s;--t:0.40s">from every screen</text><path class="dr" d="M830 135 Q884.0 135.0 938 135" pathLength="1" fill="none" stroke="#1d1850" stroke-width="2.8" stroke-linecap="round" style="--d:3.10s;--t:0.35s"/><path class="dr" d="M928.3 140.3 L938 135 L928.3 129.7" pathLength="1" fill="none" stroke="#1d1850" stroke-width="2.8" stroke-linecap="round" stroke-linejoin="round" style="--d:3.38s;--t:.2s"/><path class="dr" d="M1065 226 Q1065.0 256.0 1065 286" pathLength="1" fill="none" stroke="#1d1850" stroke-width="2.8" stroke-linecap="round" style="--d:3.40s;--t:0.30s"/><path class="dr" d="M1060.2 277.2 L1065 286 L1069.8 277.2" pathLength="1" fill="none" stroke="#1d1850" stroke-width="2.8" stroke-linecap="round" stroke-linejoin="round" style="--d:3.64s;--t:.2s"/><g class="drop" style="--d:3.60s"><rect x="950" y="305" width="230" height="160" rx="16" fill="#aca4ea" stroke="#1d1850" stroke-width="2.0"/><rect x="950" y="296" width="230" height="160" rx="16" fill="#ffffff" stroke="#1d1850" stroke-width="2.0"/><path d="M961.2 299.2 H1168.8" stroke="#ffffff" stroke-width="2.4" stroke-linecap="round" opacity=".75" fill="none"/></g><text class="tx" x="980" y="332" font-size="19" font-weight="700" text-anchor="start" fill="#1d1850" data-max="180" style="--d:3.80s;--t:0.35s">Tasks</text><text class="tx" x="980" y="364" font-size="19" font-weight="700" text-anchor="start" fill="#1d1850" data-max="180" style="--d:3.90s;--t:0.35s">Artifacts</text><text class="tx" x="980" y="396" font-size="19" font-weight="700" text-anchor="start" fill="#1d1850" data-max="180" style="--d:4.00s;--t:0.35s">Chats</text><text class="tx" x="980" y="428" font-size="19" font-weight="700" text-anchor="start" fill="#1d1850" data-max="180" style="--d:4.10s;--t:0.35s">Settings</text><text class="tx mut" x="560" y="470" font-size="17" font-weight="600" text-anchor="middle" fill="#1d1850" data-max="520" style="--d:4.40s;--t:0.40s">back always goes up one level, by swipe or tap</text></g></svg></figure></div></div></section>
         <section class="ads-sec" id="ask" data-rail="Explore"><div class="ads-wrap"><p class="ads-label page-chapter fade-up">Explore</p><div class="media-story media-story--lead"><div class="media-story-copy fade-up"><div><h2 class="ads-h2">Answer layout</h2></div><div><p>The home opens on what is coming up and questions worth asking. Each answer follows decision 04: it leads with its point and key figure, then the chart that fits the data, with the steps OptiGenie took one tap away, so the marketer can check how it got there.</p></div></div><figure class="case-figure fade-up" style="--media-max:900px"><div class="ads-shot" data-full="./assets/optigenie/set-explore.webp?v=e248af05323f" data-width="1896" data-height="1692" data-title="Explore"><img loading="lazy" decoding="async" src="./assets/optigenie/set-explore.webp?v=e248af05323f" width="1896" height="1692" alt="The Explore home with upcoming tasks and suggested questions, and the answer to How are my brands doing?: deposits up 3.6% across five brands, a chart of yesterday’s deposits and the dashboard KPIs."></div></figure></div><div class="media-story"><div class="media-story-copy fade-up"><div><p class="media-kicker">From an answer</p><h3>Save as dashboard</h3></div><div><p>Any answer can become a dashboard. Pick how often it refreshes, and it joins the views you follow.</p></div></div><figure class="case-figure fade-up" style="--media-max:620px"><div class="ads-shot recording-frame" data-title="A churn question is asked, then the answer is saved as a dashboard that refreshes every day."><video src="./assets/optigenie/og-save.mp4?v=1be249759f98" poster="./assets/optigenie/og-save-poster.webp?v=13d20621507e" width="1896" height="1692" loop muted playsinline preload="none" aria-label="A churn question is asked, then the answer is saved as a dashboard that refreshes every day."></video></div></figure></div></div></section>
         <section class="ads-sec ads-sec--mist" id="dashboards" data-rail="Dashboards"><div class="ads-wrap"><p class="ads-label page-chapter fade-up">Dashboards</p><div class="media-story media-story--lead"><div class="media-story-copy fade-up"><div><h2 class="ads-h2">Dashboard creation</h2></div><div><p>Creating a dashboard shows OptiGenie working through it: what it reads, how it groups the data, which charts it picks and when it refreshes. Then it joins the tab, which opens on the views you follow, the next one peeking at the edge; a swipe moves between them and a tap opens one live. The numbers a marketer checks every morning shouldn’t need asking again, so they live in their own tab, not in chat history.</p></div></div><figure class="case-figure fade-up og-pair2"><div class="ads-shot recording-frame"><video src="./assets/optigenie/og-dash-build.mp4?v=ac68aaa19cb9" poster="./assets/optigenie/og-dash-build-poster.webp?v=bc414f184541" width="1000" height="1692" loop muted playsinline preload="none" aria-label="Promotions that work, by brand is typed in Dashboards, and OptiGenie builds it step by step."></video></div><div class="ads-shot recording-frame"><video src="./assets/optigenie/og-dash-swipe.mp4?v=1fd32f463b19" poster="./assets/optigenie/og-dash-swipe-poster.webp?v=912c43f8ae97" width="1000" height="1692" loop muted playsinline preload="none" aria-label="The Dashboards tab: a swipe through the live dashboards, then KPI trends opens."></video></div></figure></div></div></section>
